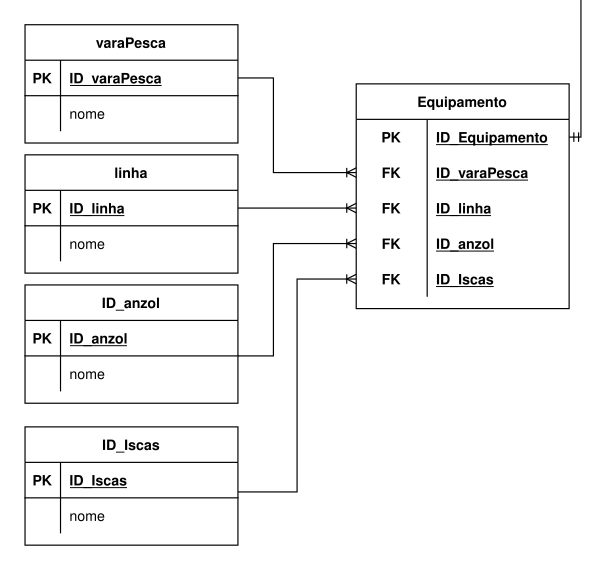
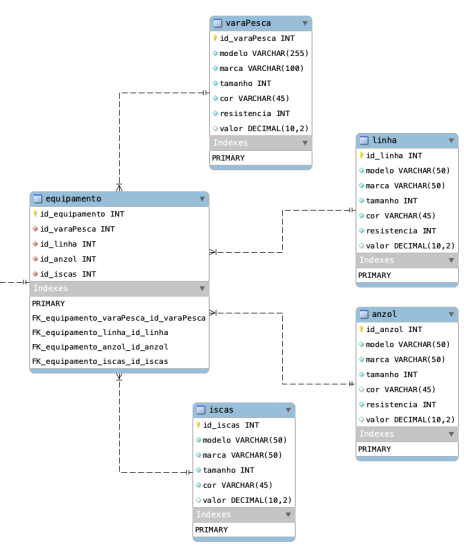
img

Changed region(s): [[0.0302, 0.0, 0.9957, 0.9819], [0.5431, 0.5523, 0.5733, 0.583]]

diff --git a/Readme.md b/Readme.md
@@ -37,6 +37,9 @@ O cadastro da tabela **Equipamentos** é relacionada é cada pesca, assim podemo
 
 </p>
 
+Essas são as tabelas de cadastro de peixes. Cada peixe tem suas particularidades como seus tamanhos possíveis, regiões onde são comuns e climas em que são mais prováveis de serem encontrados.
+Esse detalhes são importantes para um bom planejamento dos pescadores.
+
 ### Pescado
 
 <p align="center">
@@ -44,6 +47,8 @@ O cadastro da tabela **Equipamentos** é relacionada é cada pesca, assim podemo
 ![Tabela_Pescado](imgs/tabela_pescado.png)
 
 </p>
+
+Por fim essa é a tabela de cadastro de pescado. Ela é onde todas as outras entidades se relacionam
 
 # Conclusão
 
